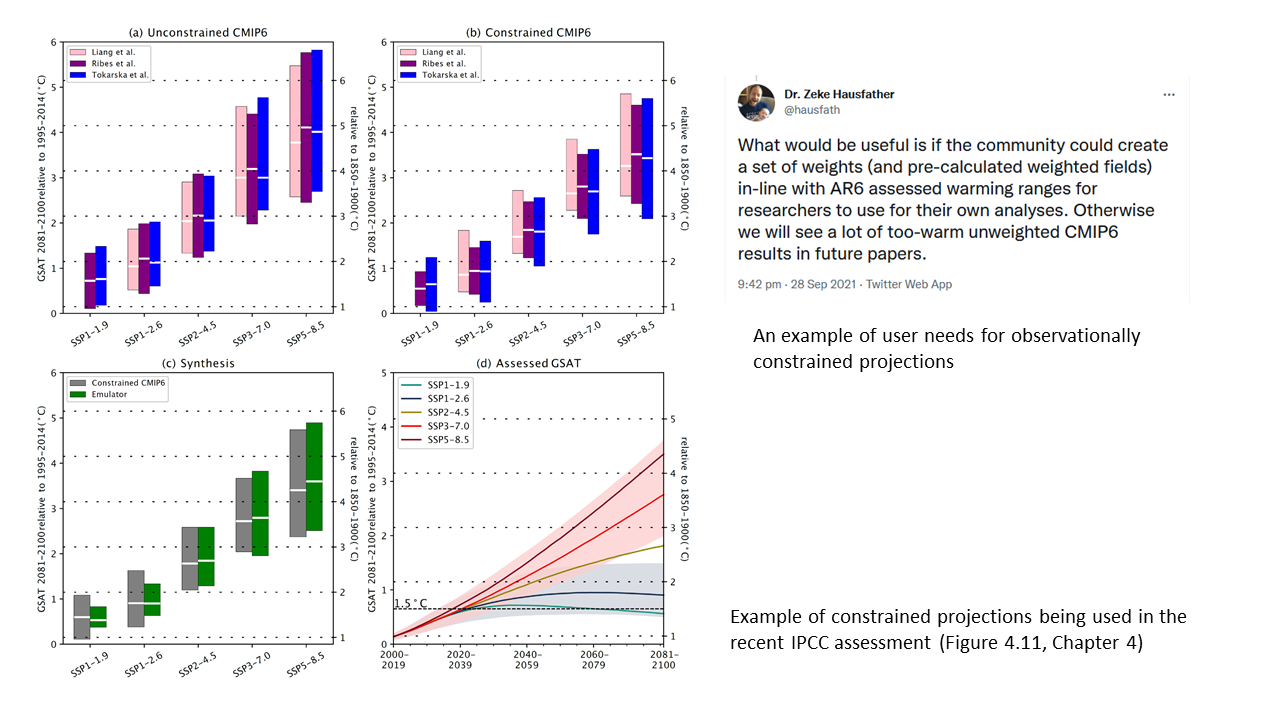
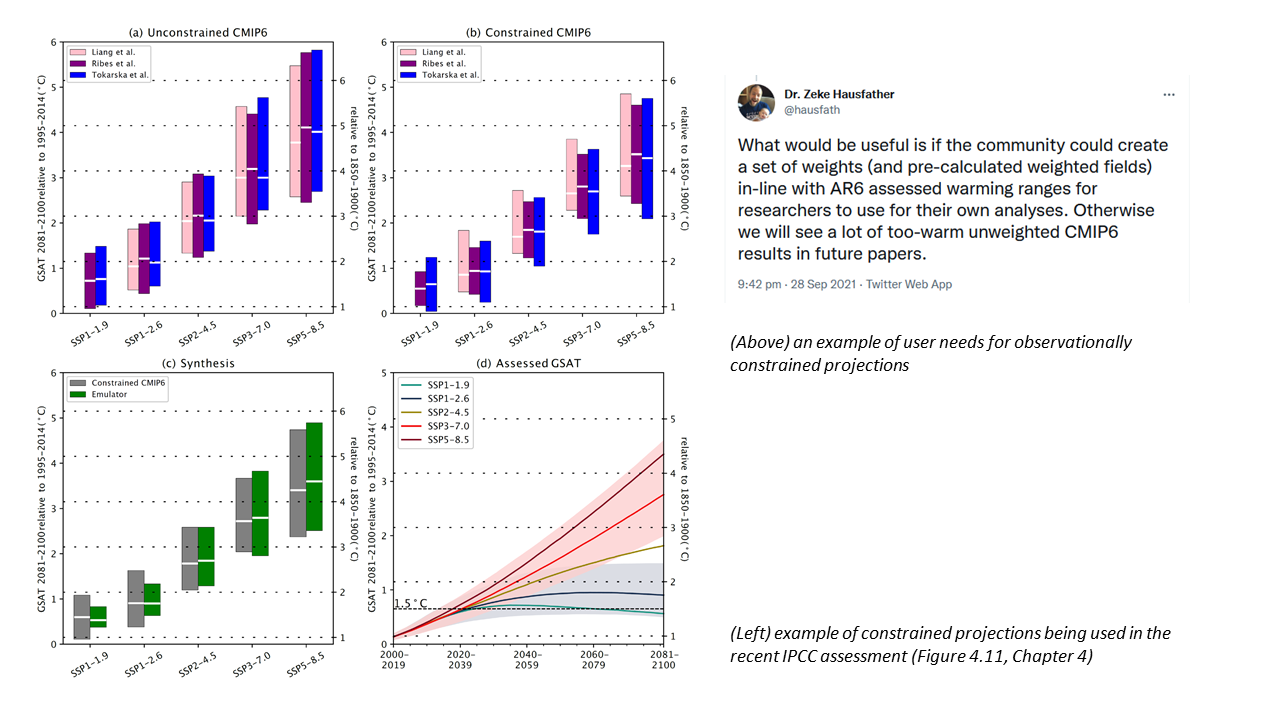
fix typos, remove in preparation tag and modify figure captions

Changed region(s): [[0.5625, 0.8556, 0.9375, 0.9167], [0.5625, 0.4583, 0.9062, 0.5194]]

diff --git a/components/UseCaseCard.vue b/components/UseCaseCard.vue
@@ -15,7 +15,7 @@
         <img :src="usecase[0].image" alt="storyboard preview" class="max-w-xs rounded-r-lg">
       </div>
       <!-- Add "in preparation badge" -->
-      <svg v-if="(title==='Alpine flash floods')|(title==='Atlas of (un)constrained climate projections')|(title==='Attribution of a small scale, heavy flash flood event to climate change')" width="156" height="36" class="absolute right-2 top-1">
+      <svg v-if="(title==='Alpine flash floods')|(title==='Attribution of a small scale, heavy flash flood event to climate change')" width="156" height="36" class="absolute right-2 top-1">
         <rect
           x="3"
           y="3"

diff --git a/pages/_usecase/_panel.vue b/pages/_usecase/_panel.vue
@@ -6,7 +6,7 @@
         <img src="~/static/eucp_logo.png" alt="EUCP Logo">
       </NuxtLink>
       <h1 class="text-2xl">
-        Storyboard: {{ title }} {{ (title==="Alpine flash floods" | title==="Atlas of (un)constrained climate projections" | title==="Attribution of a small scale, heavy flash flood event to climate change") ? "(in preparation)" : "" }}
+        Storyboard: {{ title }} {{ (title==="Alpine flash floods" | title==="Attribution of a small scale, heavy flash flood event to climate change") ? "(in preparation)" : "" }}
       </h1>
     </div>
 

diff --git a/content/atlas/2_methods.md b/content/atlas/2_methods.md
@@ -5,6 +5,6 @@ headline: Underlying understanding
 
 ## EUCP has led underlying work to understand user value in these approaches
 
-The work within EUCP has been on understanding different potential quantitative approaches to using historical validation of current projections.  We provided the first common evaluation of their projected changes, across a range of currently available methodologies. 
+The work within EUCP has been on understanding different potential quantitative approaches to using historical validation of current projections. We provided the first common evaluation of their projected changes, across a range of currently available methodologies. 
 
-We have assessed the reliability of these approaches using blind out-of-sample evaluation, using new CMIP6 simulations as a proxy for real world historical and future responses.  This has enabled us to look at the skill of each method across a range of metrics, which provides an objective assessment of a particular methodological approach.
+We have assessed the reliability of these approaches using blind out-of-sample evaluation, using new CMIP6 simulations as a proxy for real world historical and future responses. This has enabled us to look at the skill of each method across a range of metrics, which provides an objective assessment of a particular methodological approach.
